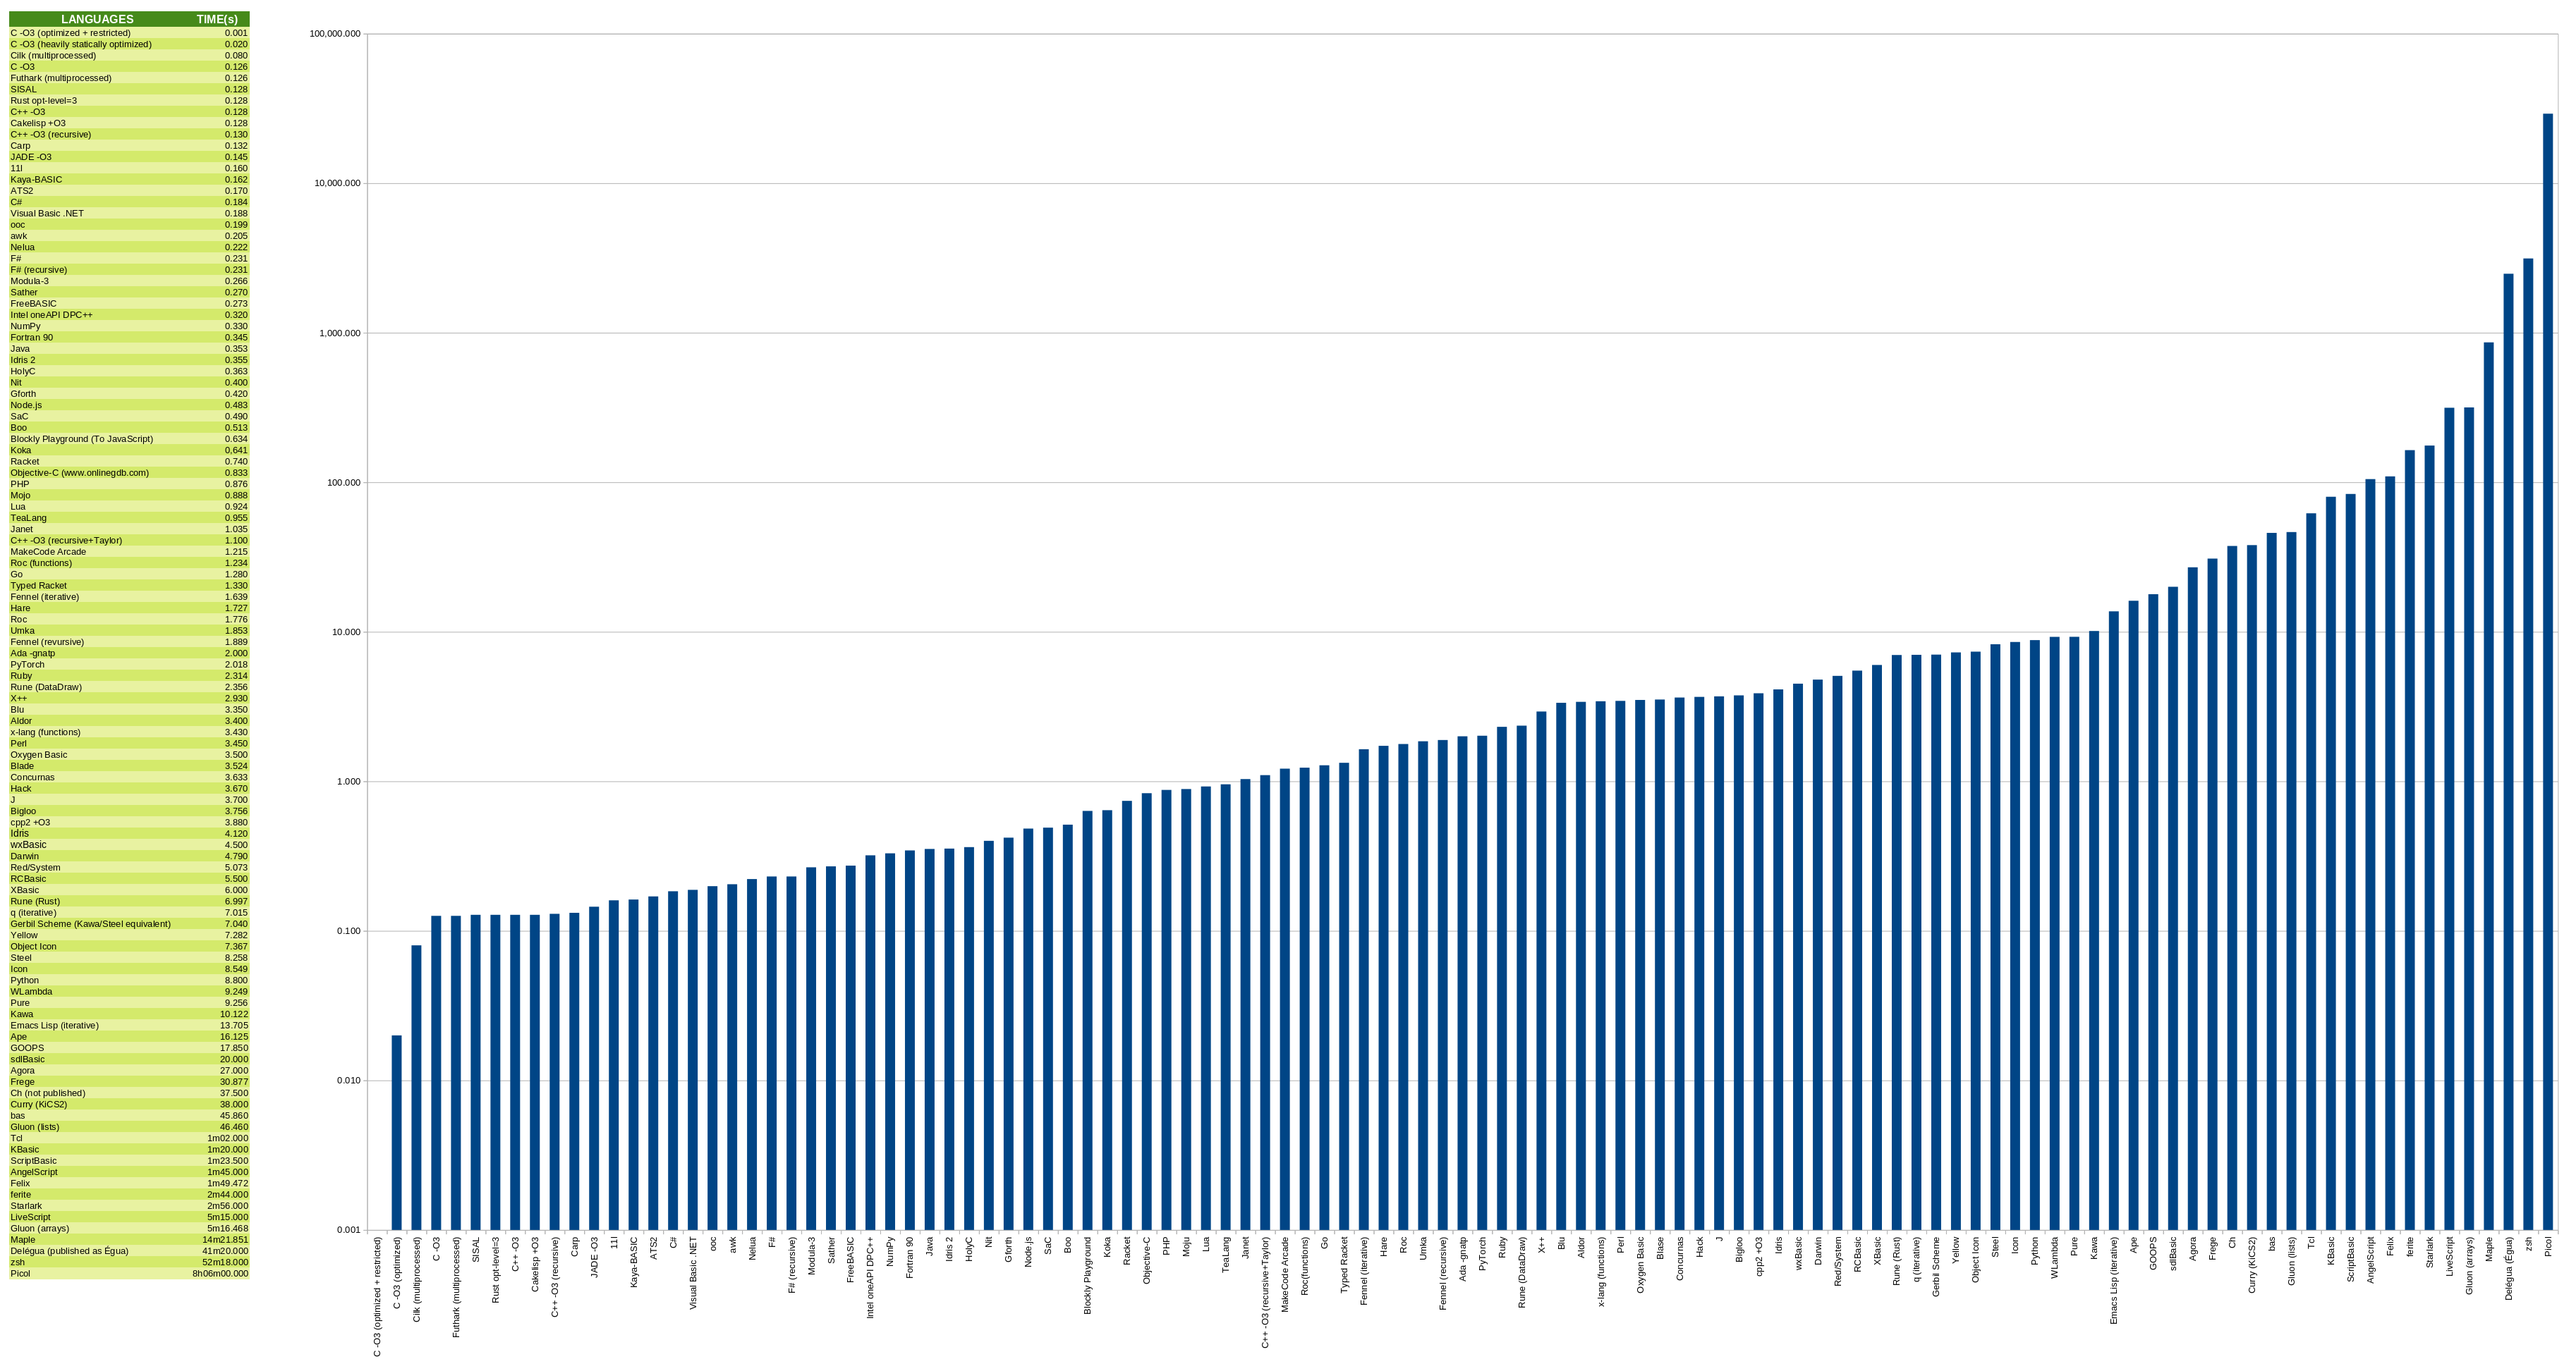
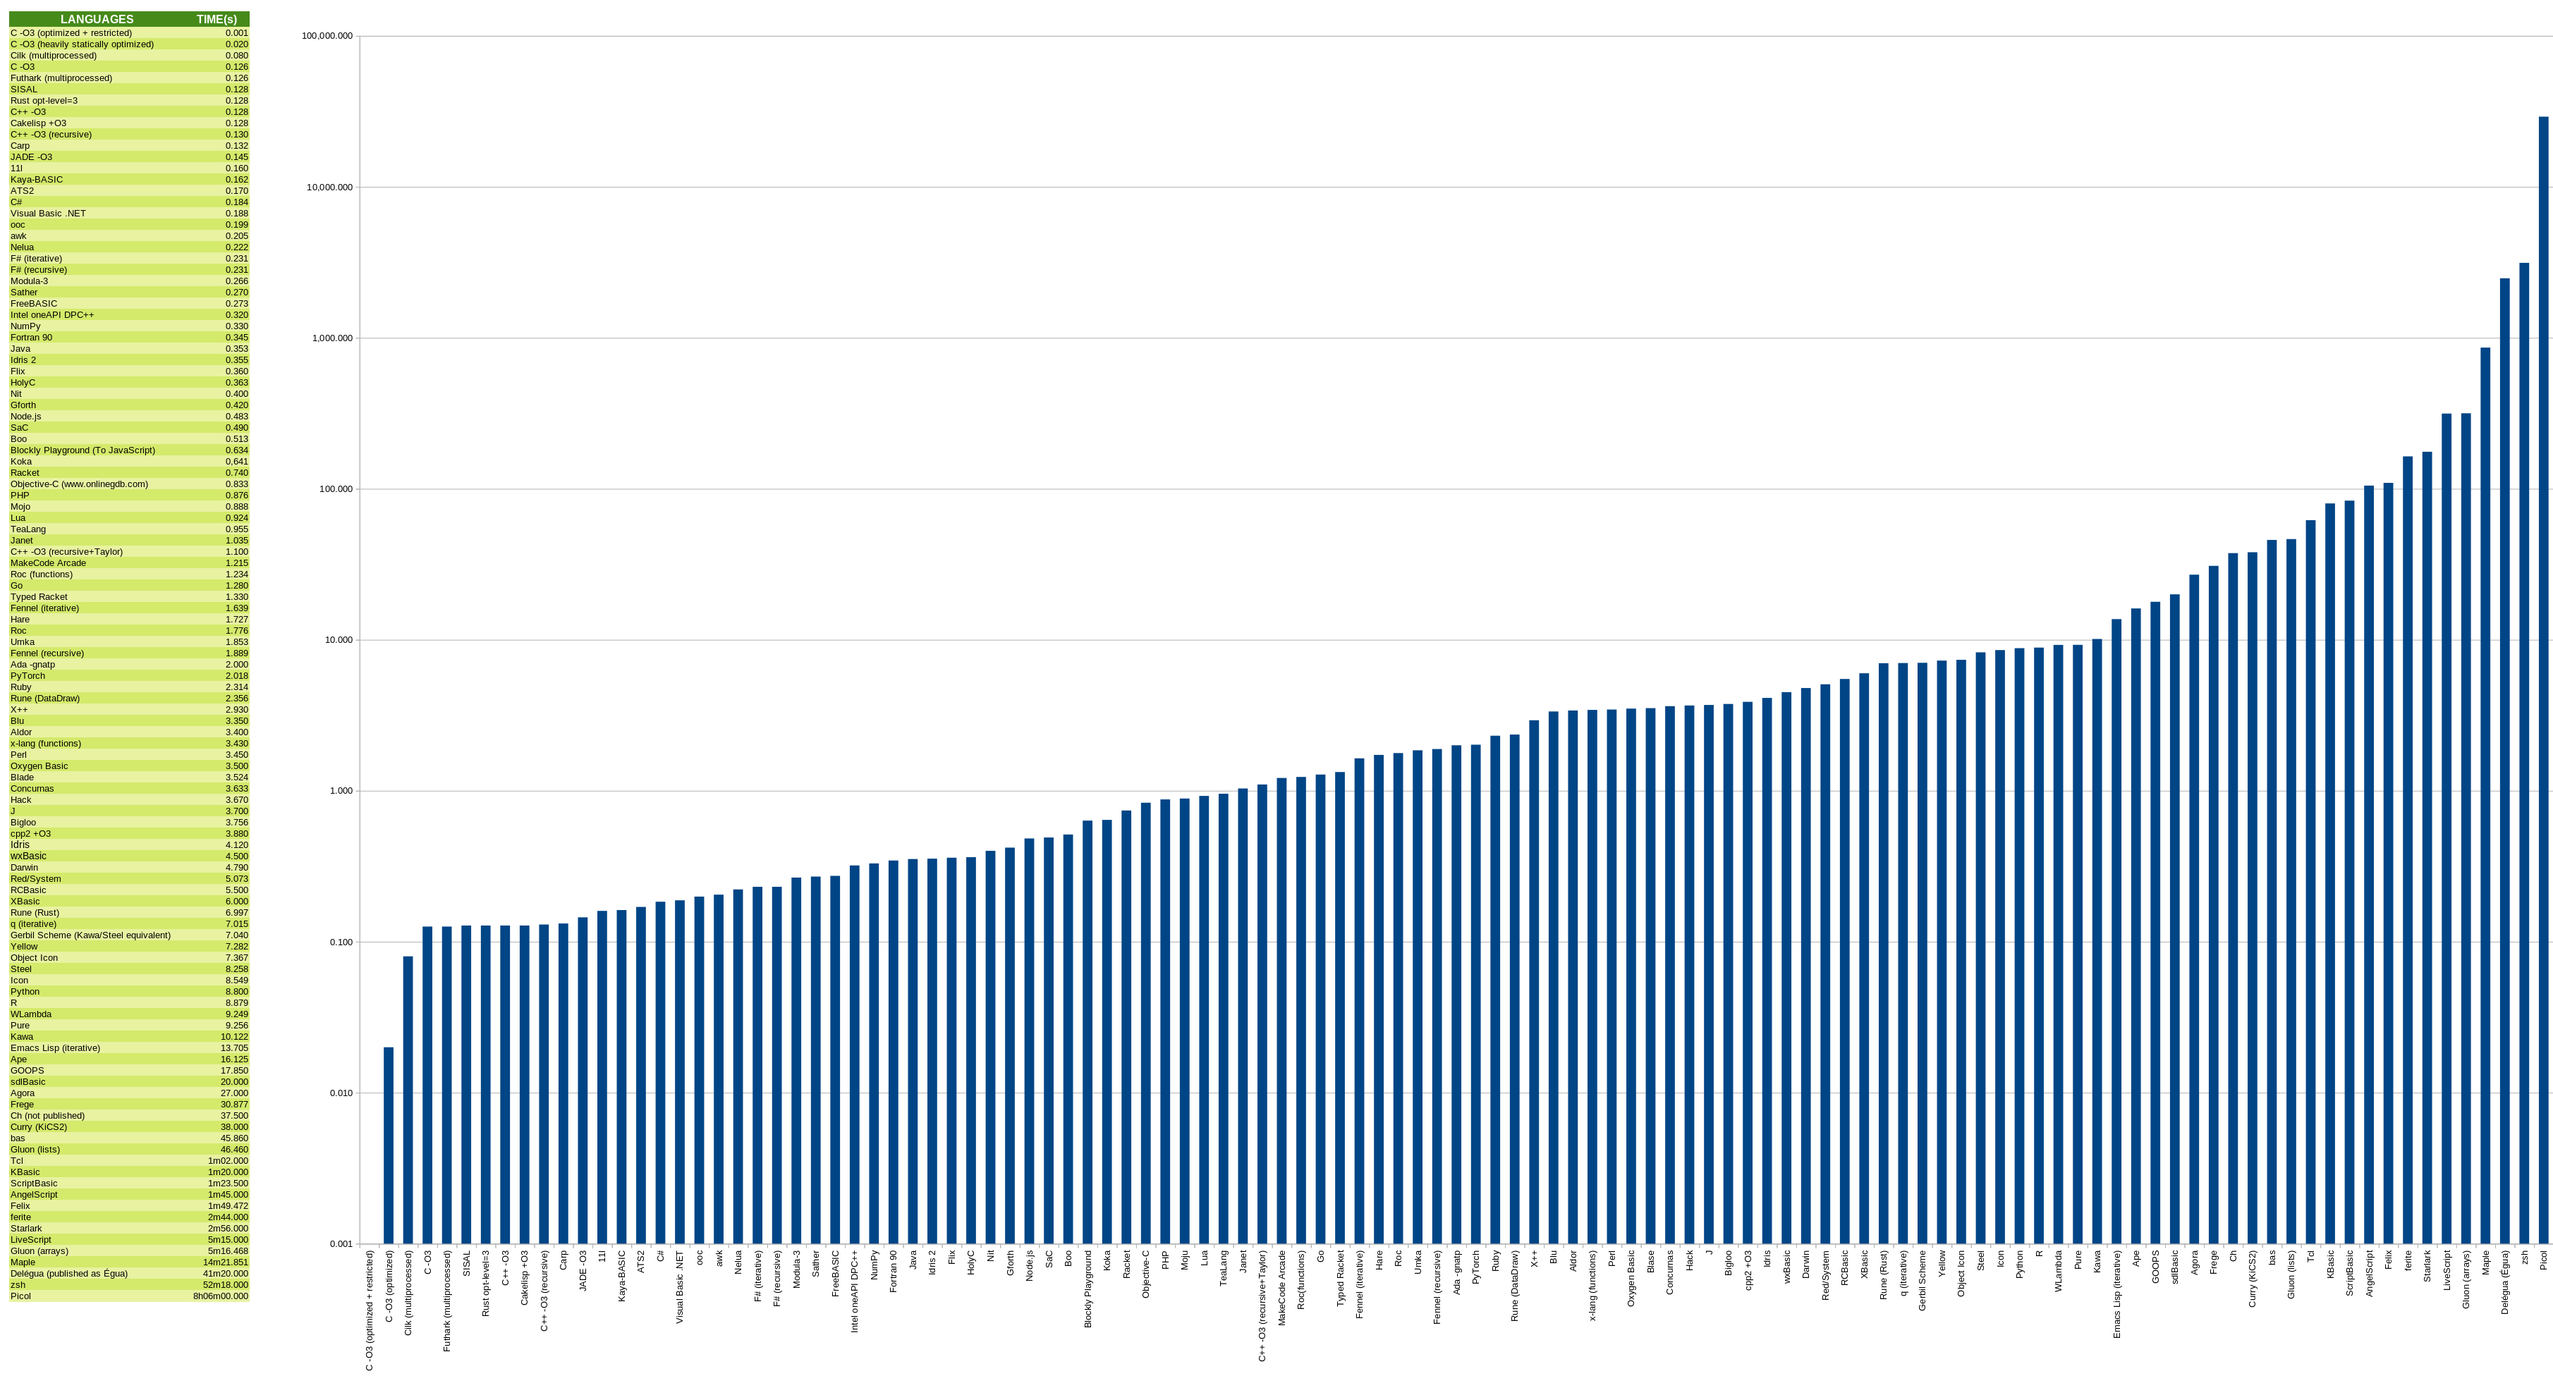
Add files via upload
0.2: 17/10/2026: Flix 0.78.0, listas escaláveis, recursiva alteradas para permitir Tail Call Optimization (TCO)

Changed region(s): [[0.0, 0.0, 0.9989, 0.9563]]

diff --git a/SOLUCOES.md b/SOLUCOES.md
@@ -535,7 +535,7 @@ This is a list of links in this repository to solutions in different dialects, o
 
 [juros.fish](juros.fish)
 
-### Flix (20/03/2025) 🧠 🔧 ♻ ✍
+### Flix (20/03/2025) 🧠 🚀 🔧 ♻ ✍ ➰
 
 [juros.flix](juros.flix)
 
